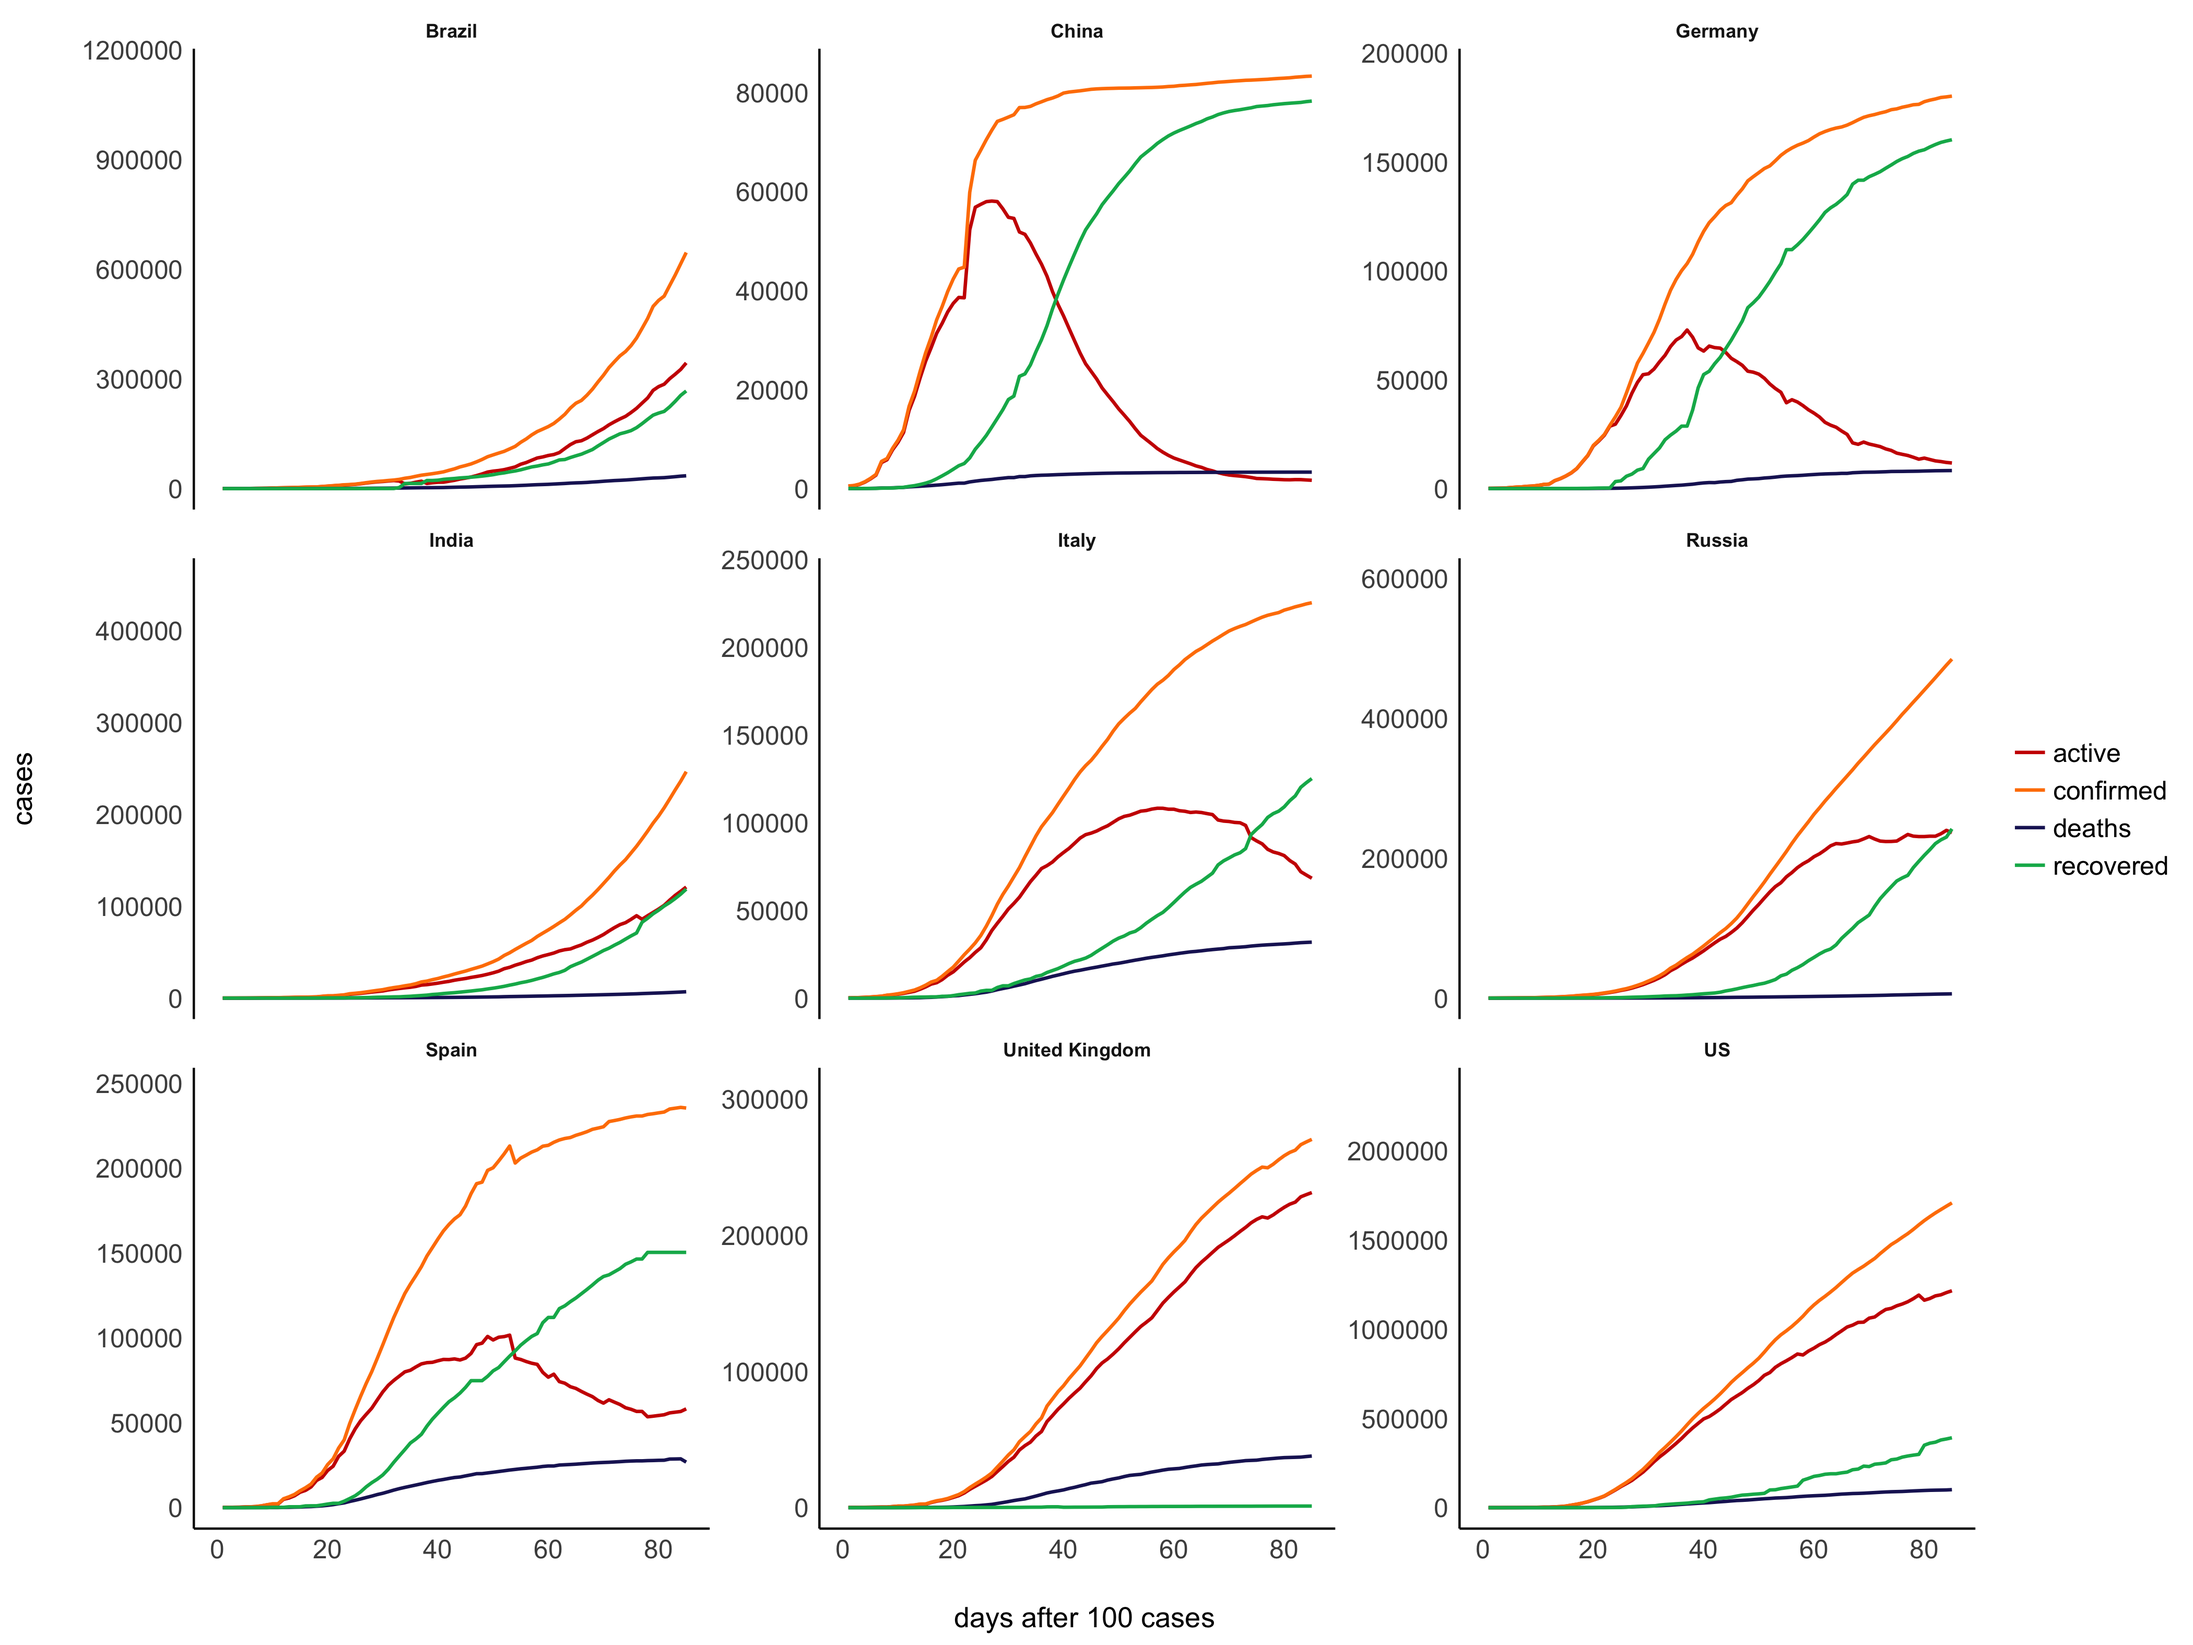
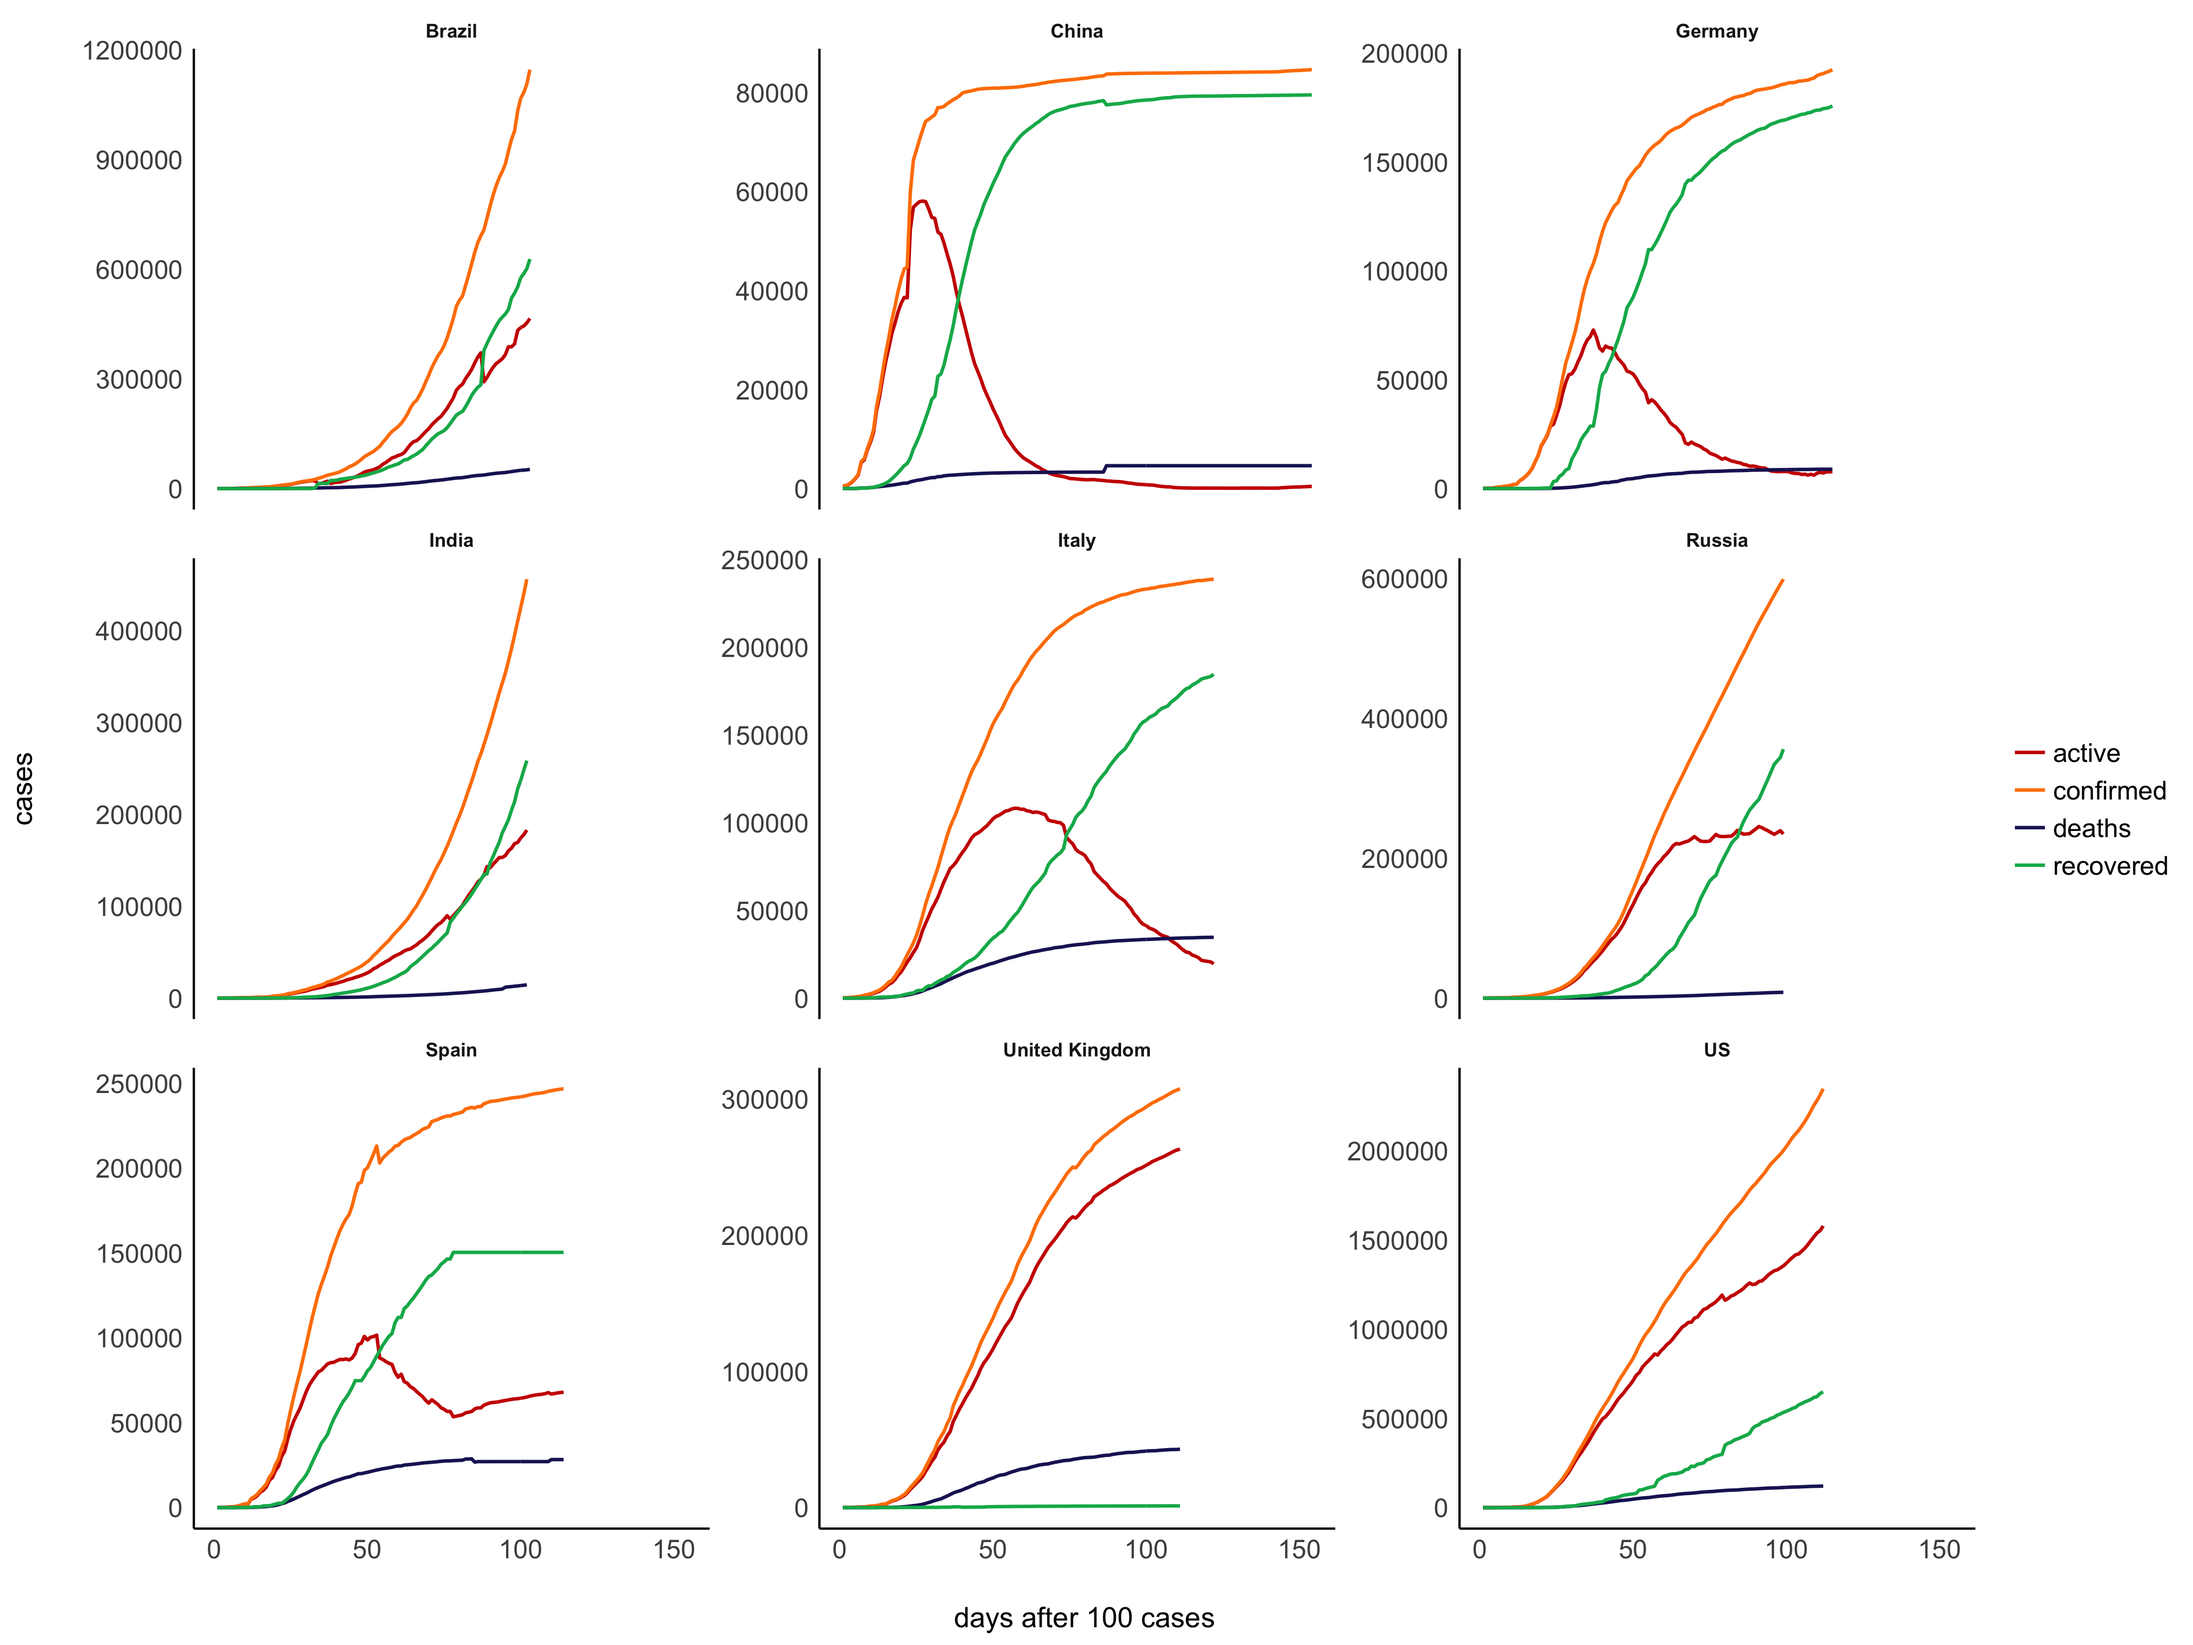
Update 25/06/2020

diff --git a/README.md b/README.md
@@ -60,7 +60,7 @@ these visualization in commerce is strictly prohibited.
 
 #### Will these figures be updated?
 
-The last update was made on 2020-06-25 09:05:42. The data of the John
+The last update was made on 2020-06-25 09:08:19. The data of the John
 Hopkins University, however, are always updated at 23:59. What you see
 is hence the situation on 2020-06-24 at 23:59:00. Also bear in mind that
 the reporting of cases is somewhat delayed so that it is very likely
